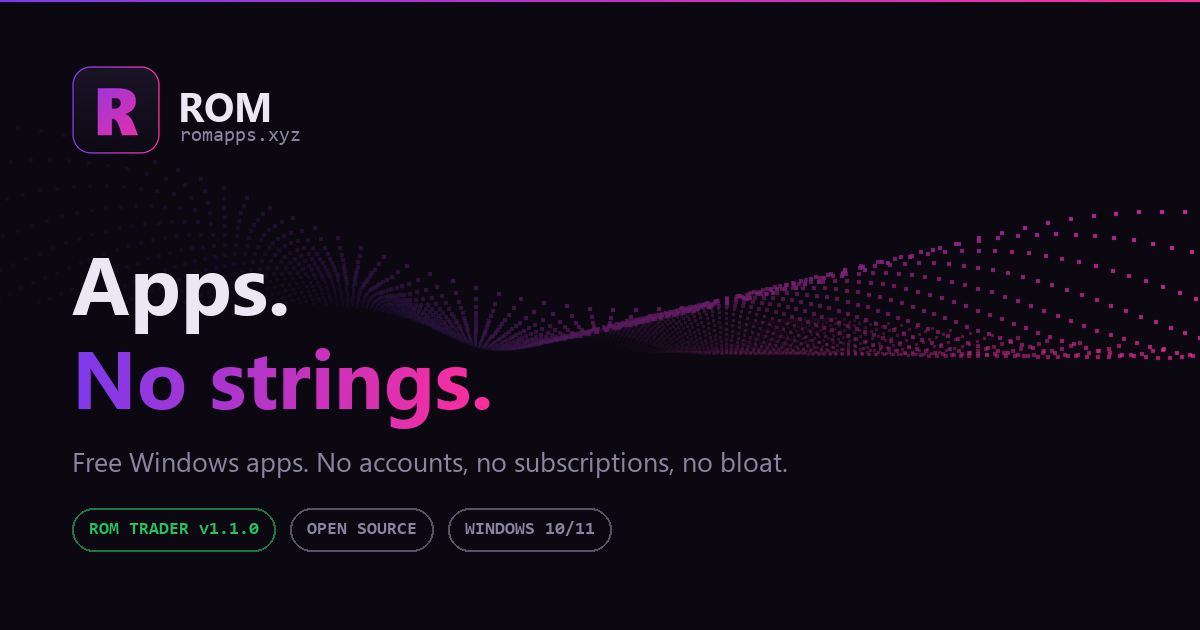
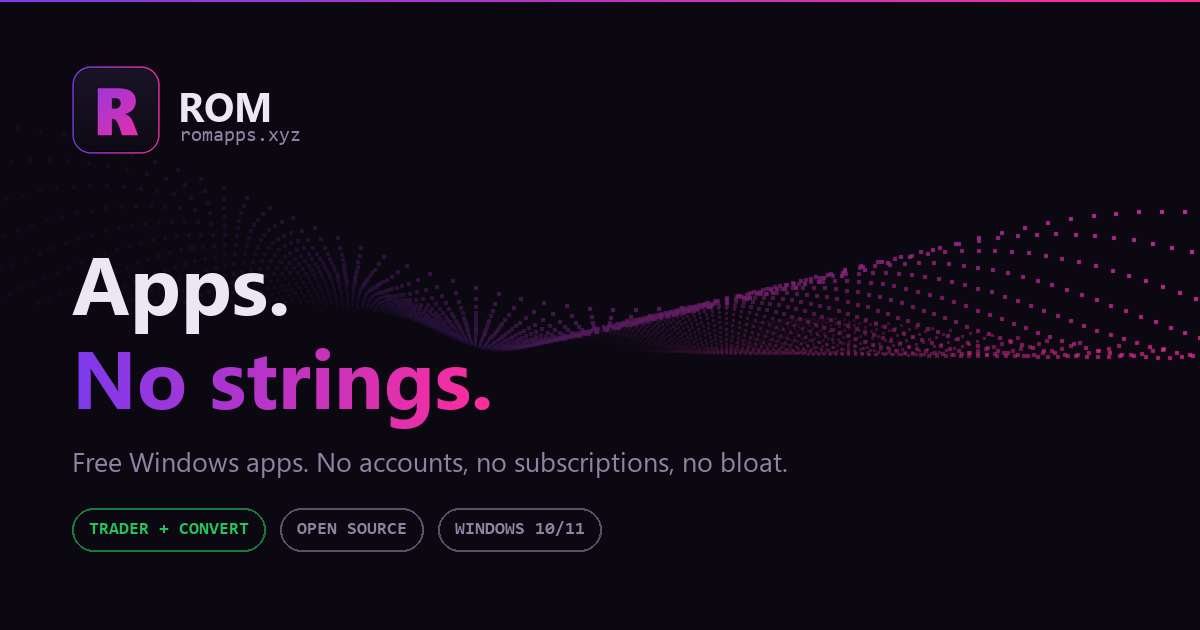
Add ROM Convert to the catalogue
The hero now points at the app list rather than one download, since the
headline promises a catalogue. JSON-LD carries an entry per app: a single
node would let search engines describe only one of them.

Changed region(s): [[0.0617, 0.8143, 0.5242, 0.8746]]

diff --git a/index.html b/index.html
@@ -28,21 +28,39 @@
 <link rel="icon" type="image/png" href="assets/rom-icon.png">
 <link rel="apple-touch-icon" href="assets/rom-icon.png">
 
+<!-- One entry per app. A single SoftwareApplication node would let search
+     engines describe only one of them, and the catalogue is the point. -->
 <script type="application/ld+json">
-{
-  "@context": "https://schema.org",
-  "@type": "SoftwareApplication",
-  "name": "ROM Trader",
-  "applicationCategory": "FinanceApplication",
-  "operatingSystem": "Windows 10, Windows 11",
-  "softwareVersion": "1.1.2",
-  "url": "https://romapps.xyz/",
-  "downloadUrl": "https://github.com/romanstma-cpu/rom-apps/releases/latest/download/ROM-Trader-Setup.exe",
-  "description": "An automated momentum bot for Kalshi prediction markets. Live dashboard, signals feed, strategy presets and risk controls. Dry-run by default.",
-  "license": "https://opensource.org/licenses/MIT",
-  "isAccessibleForFree": true,
-  "offers": { "@type": "Offer", "price": "0", "priceCurrency": "USD" }
-}
+[
+  {
+    "@context": "https://schema.org",
+    "@type": "SoftwareApplication",
+    "name": "ROM Trader",
+    "applicationCategory": "FinanceApplication",
+    "operatingSystem": "Windows 10, Windows 11",
+    "softwareVersion": "1.1.2",
+    "url": "https://romapps.xyz/",
+    "downloadUrl": "https://github.com/romanstma-cpu/rom-apps/releases/latest/download/ROM-Trader-Setup.exe",
+    "description": "An automated momentum bot for Kalshi prediction markets. Live dashboard, signals feed, strategy presets and risk controls. Dry-run by default.",
+    "license": "https://opensource.org/licenses/MIT",
+    "isAccessibleForFree": true,
+    "offers": { "@type": "Offer", "price": "0", "priceCurrency": "USD" }
+  },
+  {
+    "@context": "https://schema.org",
+    "@type": "SoftwareApplication",
+    "name": "ROM Convert",
+    "applicationCategory": "MultimediaApplication",
+    "operatingSystem": "Windows 10, Windows 11",
+    "softwareVersion": "1.0.0",
+    "url": "https://romapps.xyz/",
+    "downloadUrl": "https://github.com/romanstma-cpu/rom-apps/releases/download/convert-v1.0.0/ROM-Convert-Setup.exe",
+    "description": "Convert video, audio and images on your own PC. Bundled ffmpeg, no upload, no watermark, no account and no file size limit.",
+    "license": "https://opensource.org/licenses/MIT",
+    "isAccessibleForFree": true,
+    "offers": { "@type": "Offer", "price": "0", "priceCurrency": "USD" }
+  }
+]
 </script>
 <link rel="preconnect" href="https://fonts.googleapis.com">
 <link rel="preconnect" href="https://fonts.gstatic.com" crossorigin>
@@ -630,10 +648,9 @@
       </h1>
       <p class="js-anim">Free Windows apps, built by one person.</p>
       <div class="cta-row js-anim">
-        <a class="btn primary" href="https://github.com/romanstma-cpu/rom-apps/releases/latest/download/ROM-Trader-Setup.exe">Download ROM Trader</a>
-        <a class="btn quiet" href="#downloads">See all apps ↓</a>
+        <a class="btn primary" href="#downloads">See the apps ↓</a>
       </div>
-      <div class="cta-note js-anim">Windows 10/11 · 100 MB · v1.1.2</div>
+      <div class="cta-note js-anim">Two apps · Windows 10/11 · free and open source</div>
     </div>
 
     <div class="mock js-mock" aria-hidden="true">
@@ -672,6 +689,14 @@
       <span class="size">100 MB</span>
       <span class="status ok"><span class="dot"></span>Available</span>
       <a class="btn primary" href="https://github.com/romanstma-cpu/rom-apps/releases/latest/download/ROM-Trader-Setup.exe">Download</a>
+    </div>
+
+    <div class="row js-row">
+      <span class="name"><strong>ROM Convert</strong>Video, audio and images — converted on your PC, never uploaded</span>
+      <span class="ver">v1.0.0</span>
+      <span class="size">121 MB</span>
+      <span class="status ok"><span class="dot"></span>Available</span>
+      <a class="btn primary" href="https://github.com/romanstma-cpu/rom-apps/releases/download/convert-v1.0.0/ROM-Convert-Setup.exe">Download</a>
     </div>
 
     <div class="row soon js-row">

diff --git a/scripts/make_og.py b/scripts/make_og.py
@@ -117,7 +117,8 @@ def build() -> Path:
     # --- chips ---
     x = 72
     for label, col in (
-        ("ROM TRADER v1.1.0", GREEN),
+        # Naming a version here means the card goes stale on every release.
+        ("TRADER + CONVERT", GREEN),
         ("OPEN SOURCE", MUTED),
         ("WINDOWS 10/11", MUTED),
     ):
